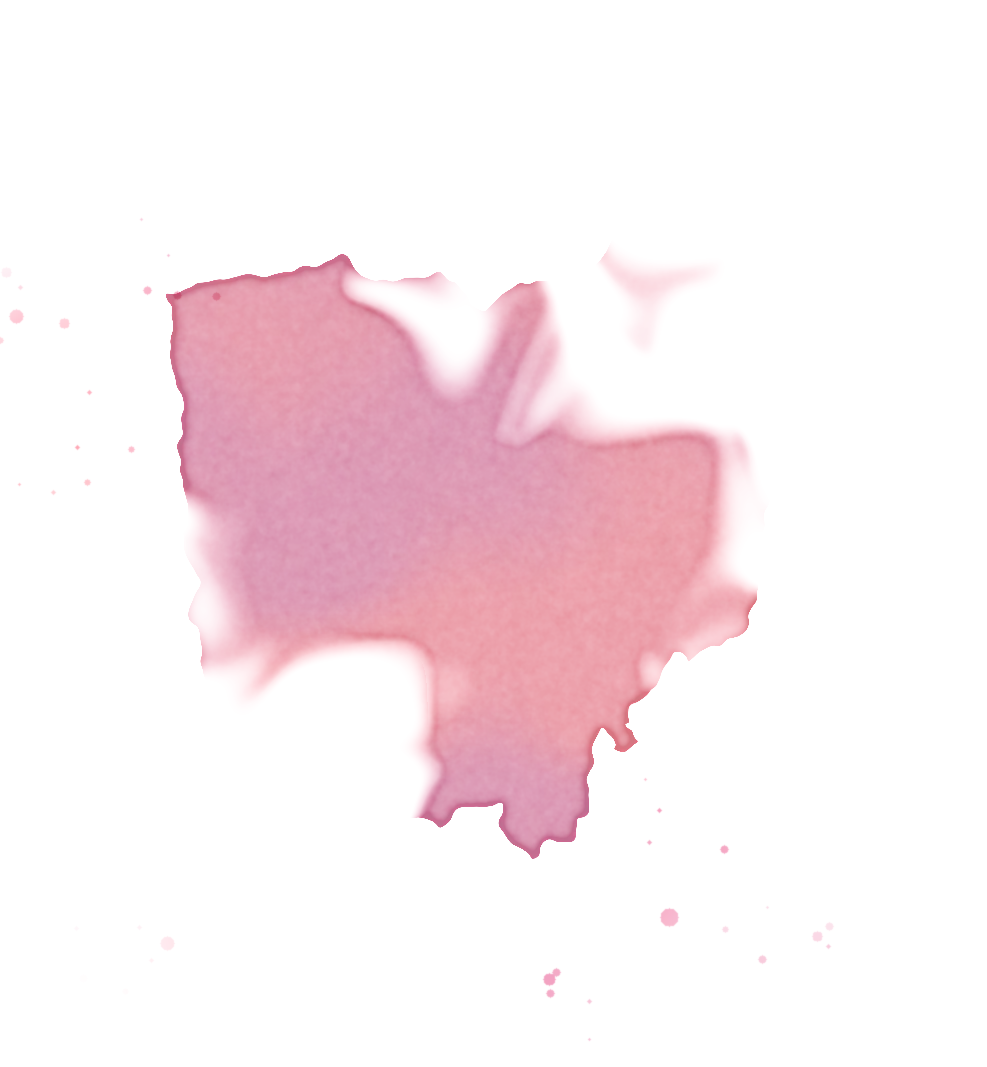
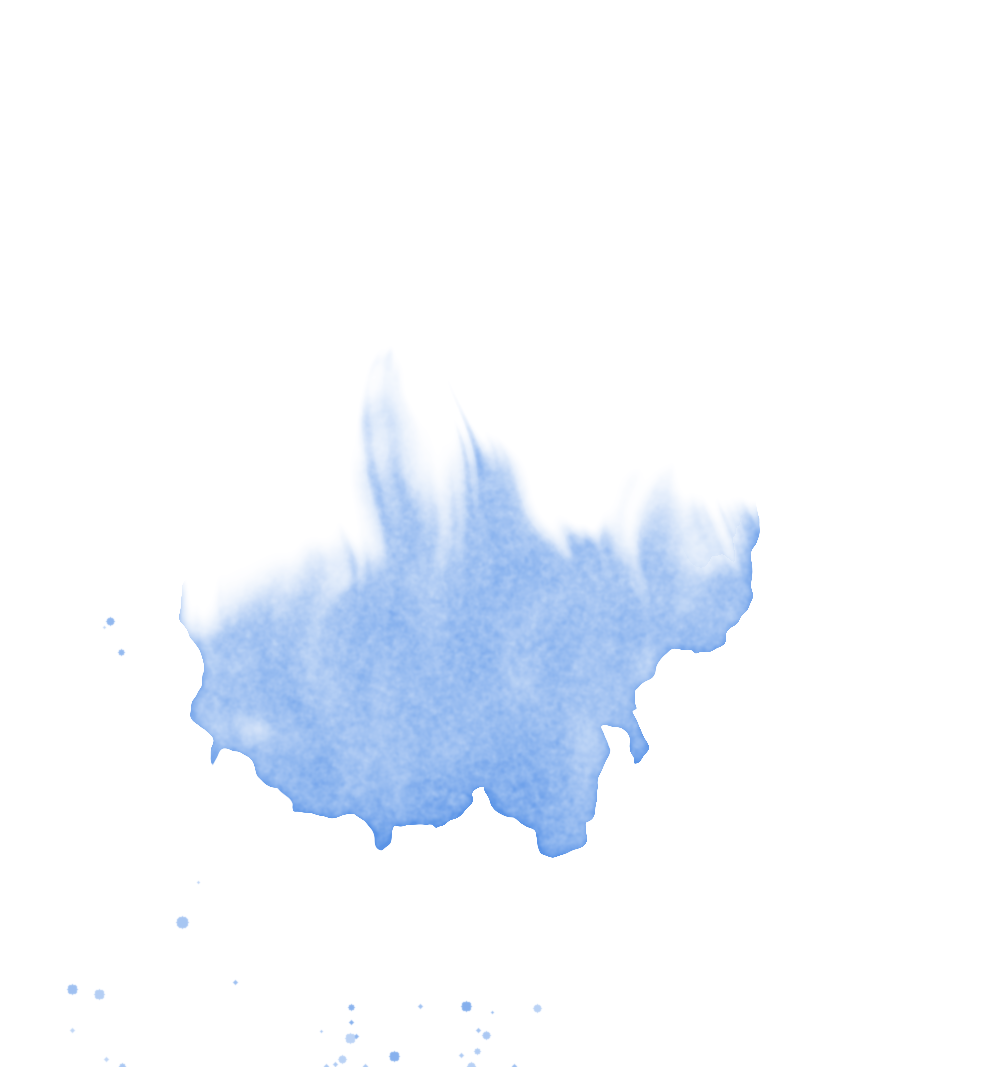
Rebuild the watercolor as layered pigments that mix, following the painting steps
Yellow enters first, then blue (mixing to green), then red (orange and
violet), then a deep blue glaze. Layers blend with multiply.

Claude-Session: https://claude.ai/code/session_01RtqZca3XnG1cdphB7sZLkx

diff --git a/index.html b/index.html
@@ -80,7 +80,7 @@
         <div class="pillar-rule"></div>
       </div>
 
-      <div class="pillar" data-wash="2" data-color="#B84C32">
+      <div class="pillar" data-wash="2" data-color="#2F65B8">
         <div class="pillar-number" aria-hidden="true">2</div>
         <div class="pillar-content">
           <h2 class="pillar-name">Resource Sharing</h2>
@@ -90,7 +90,7 @@
         <div class="pillar-rule"></div>
       </div>
 
-      <div class="pillar" data-wash="3" data-color="#3D6E4E">
+      <div class="pillar" data-wash="3" data-color="#C03A63">
         <div class="pillar-number" aria-hidden="true">3</div>
         <div class="pillar-content">
           <h2 class="pillar-name">Support</h2>
@@ -99,7 +99,7 @@
         <div class="pillar-rule"></div>
       </div>
 
-      <div class="pillar" data-wash="4" data-color="#2E508C">
+      <div class="pillar" data-wash="4" data-color="#2E3E95">
         <div class="pillar-number" aria-hidden="true">4</div>
         <div class="pillar-content">
           <h2 class="pillar-name">Advocacy</h2>

diff --git a/css/site.css b/css/site.css
@@ -64,6 +64,7 @@ body {
   top: -16.67%;                        /* 100 / 600 */
   width: 137.04%;                      /* 740 / 540 */
   height: 133.33%;                     /* 800 / 600 */
+  mix-blend-mode: multiply;           /* pigments mix where they overlap, like real paint */
   -webkit-mask-image: linear-gradient(to right, transparent, #000 5%, #000 95%, transparent);
   mask-image: linear-gradient(to right, transparent, #000 5%, #000 95%, transparent);
 }

diff --git a/css/home.css b/css/home.css
@@ -197,3 +197,8 @@
   .scroll-hint { animation: none; }
   html { scroll-behavior: auto; }
 }
+
+/* keep pillar text readable where the paint is deepest */
+.pillar-name, .pillar-desc {
+  text-shadow: 0 0 10px rgba(247, 243, 238, 0.95), 0 0 3px rgba(247, 243, 238, 0.9);
+}
